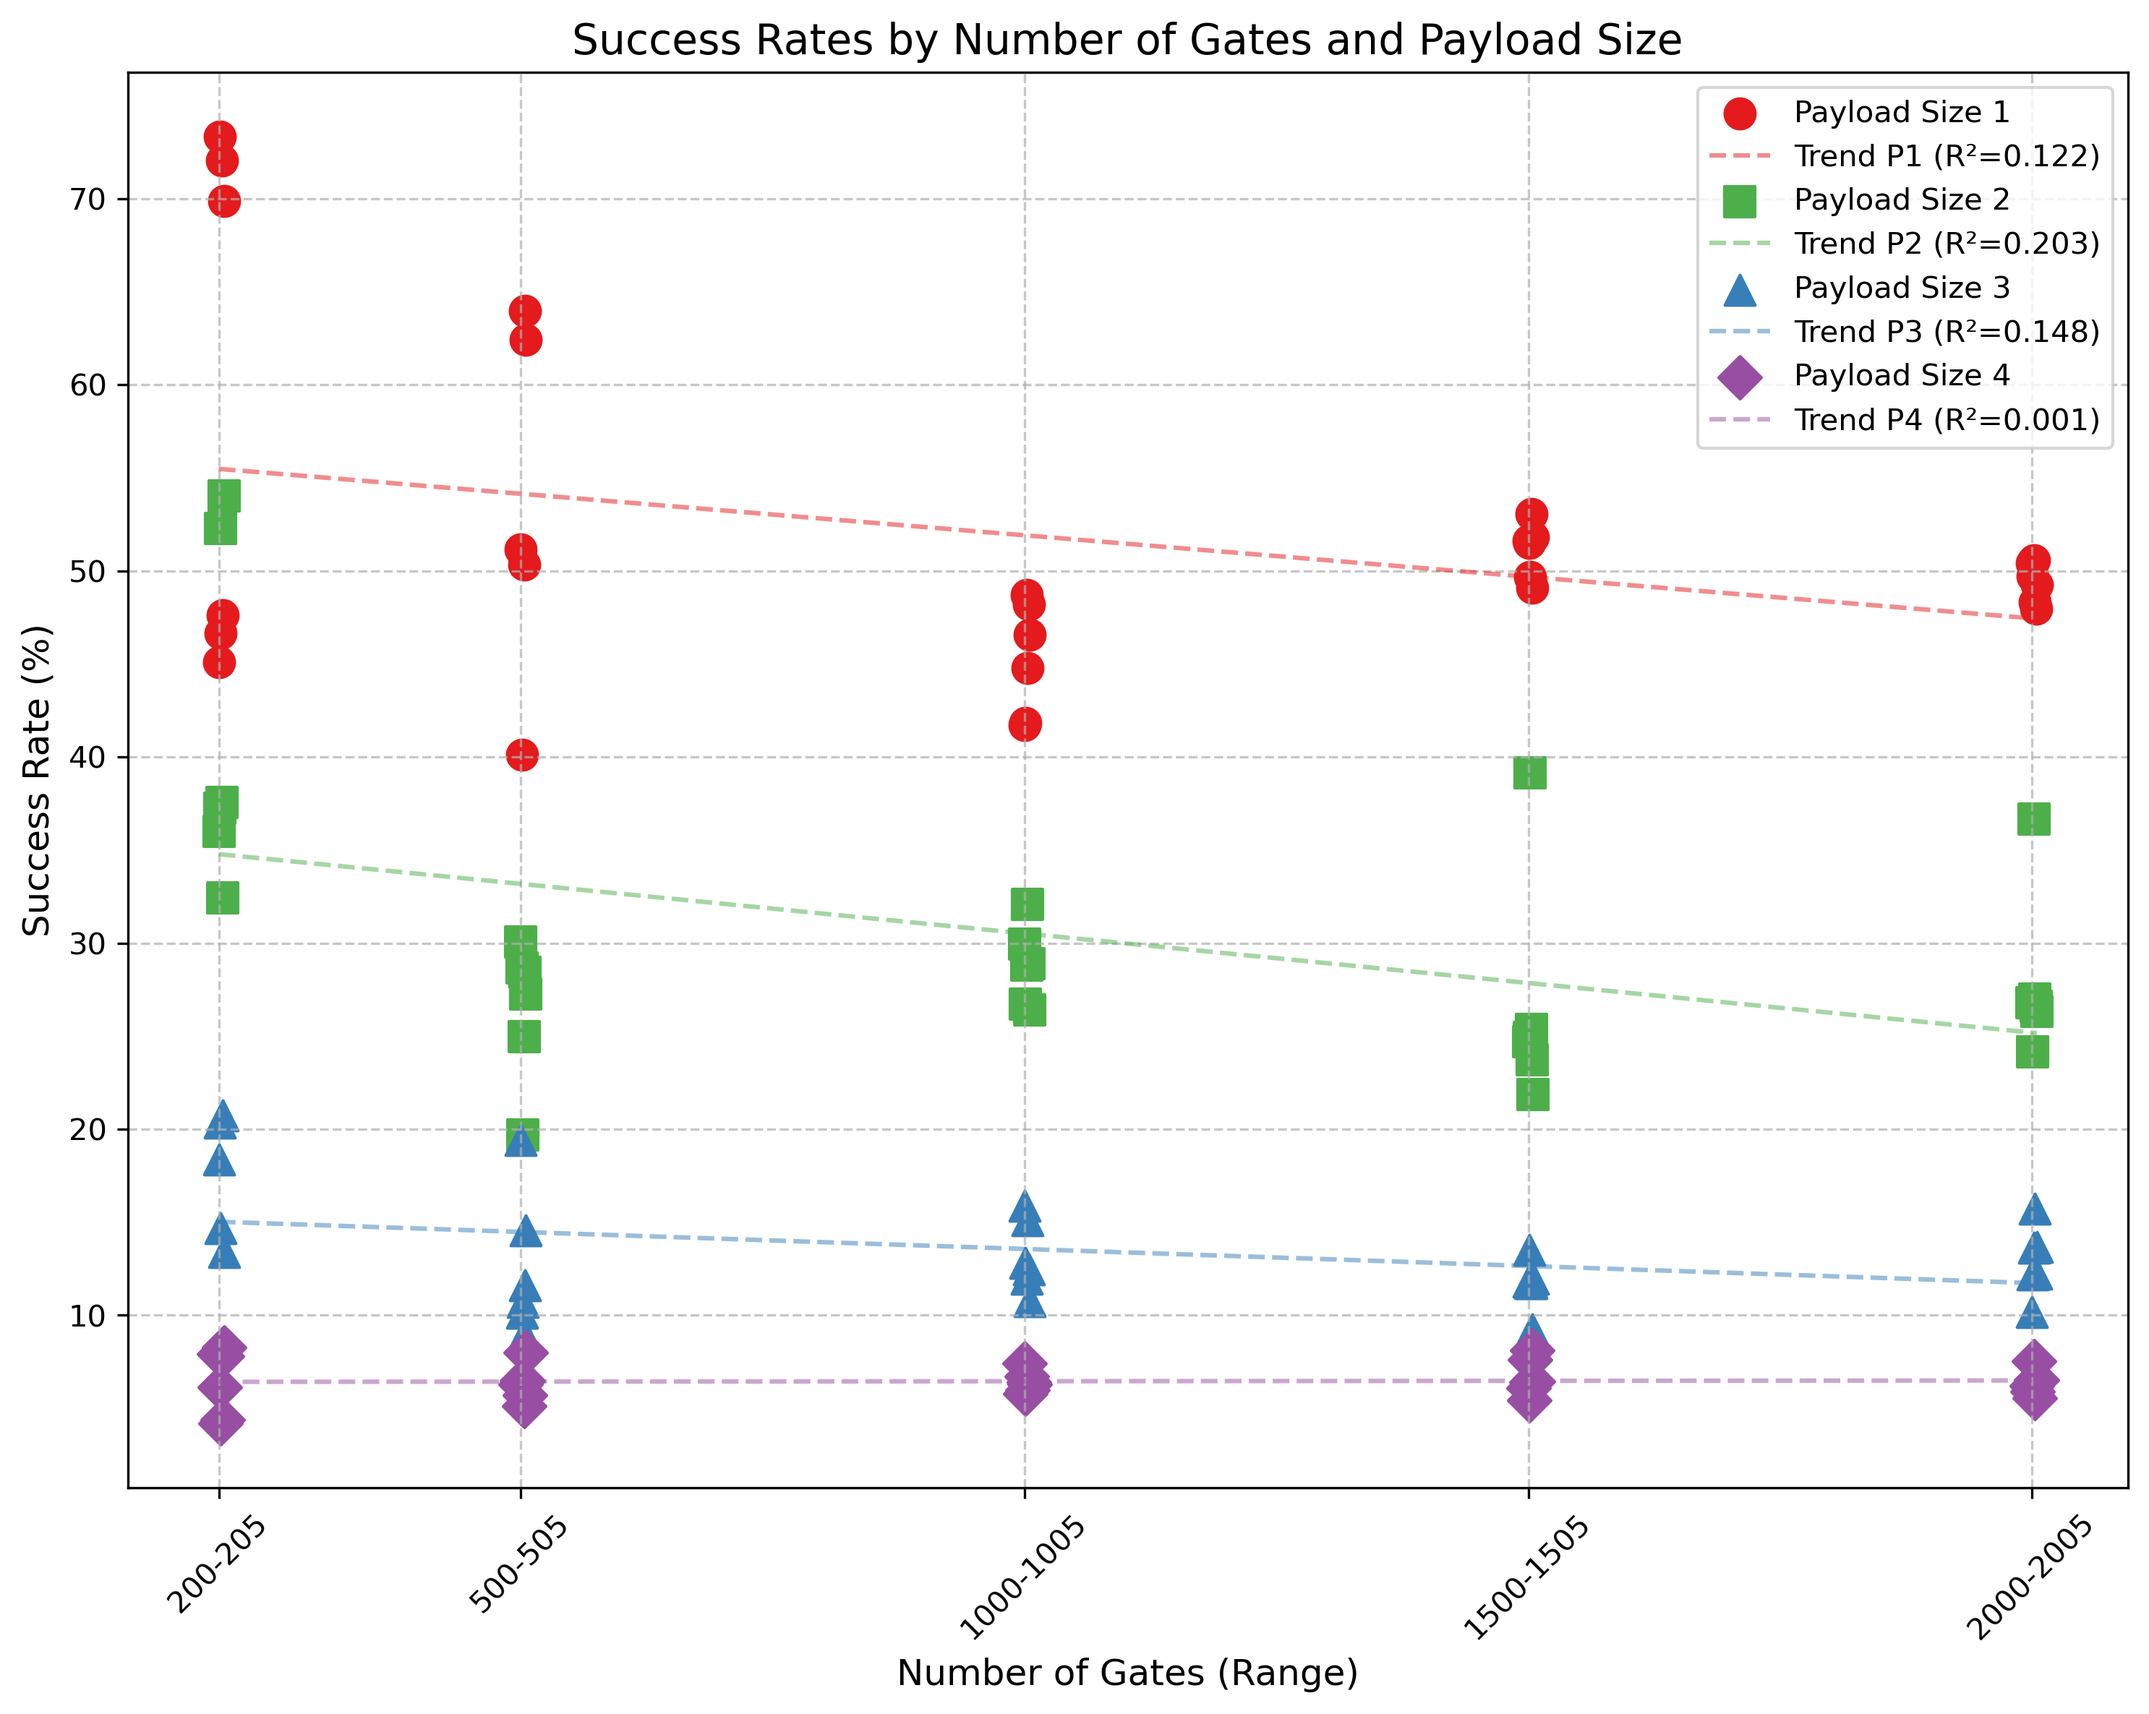
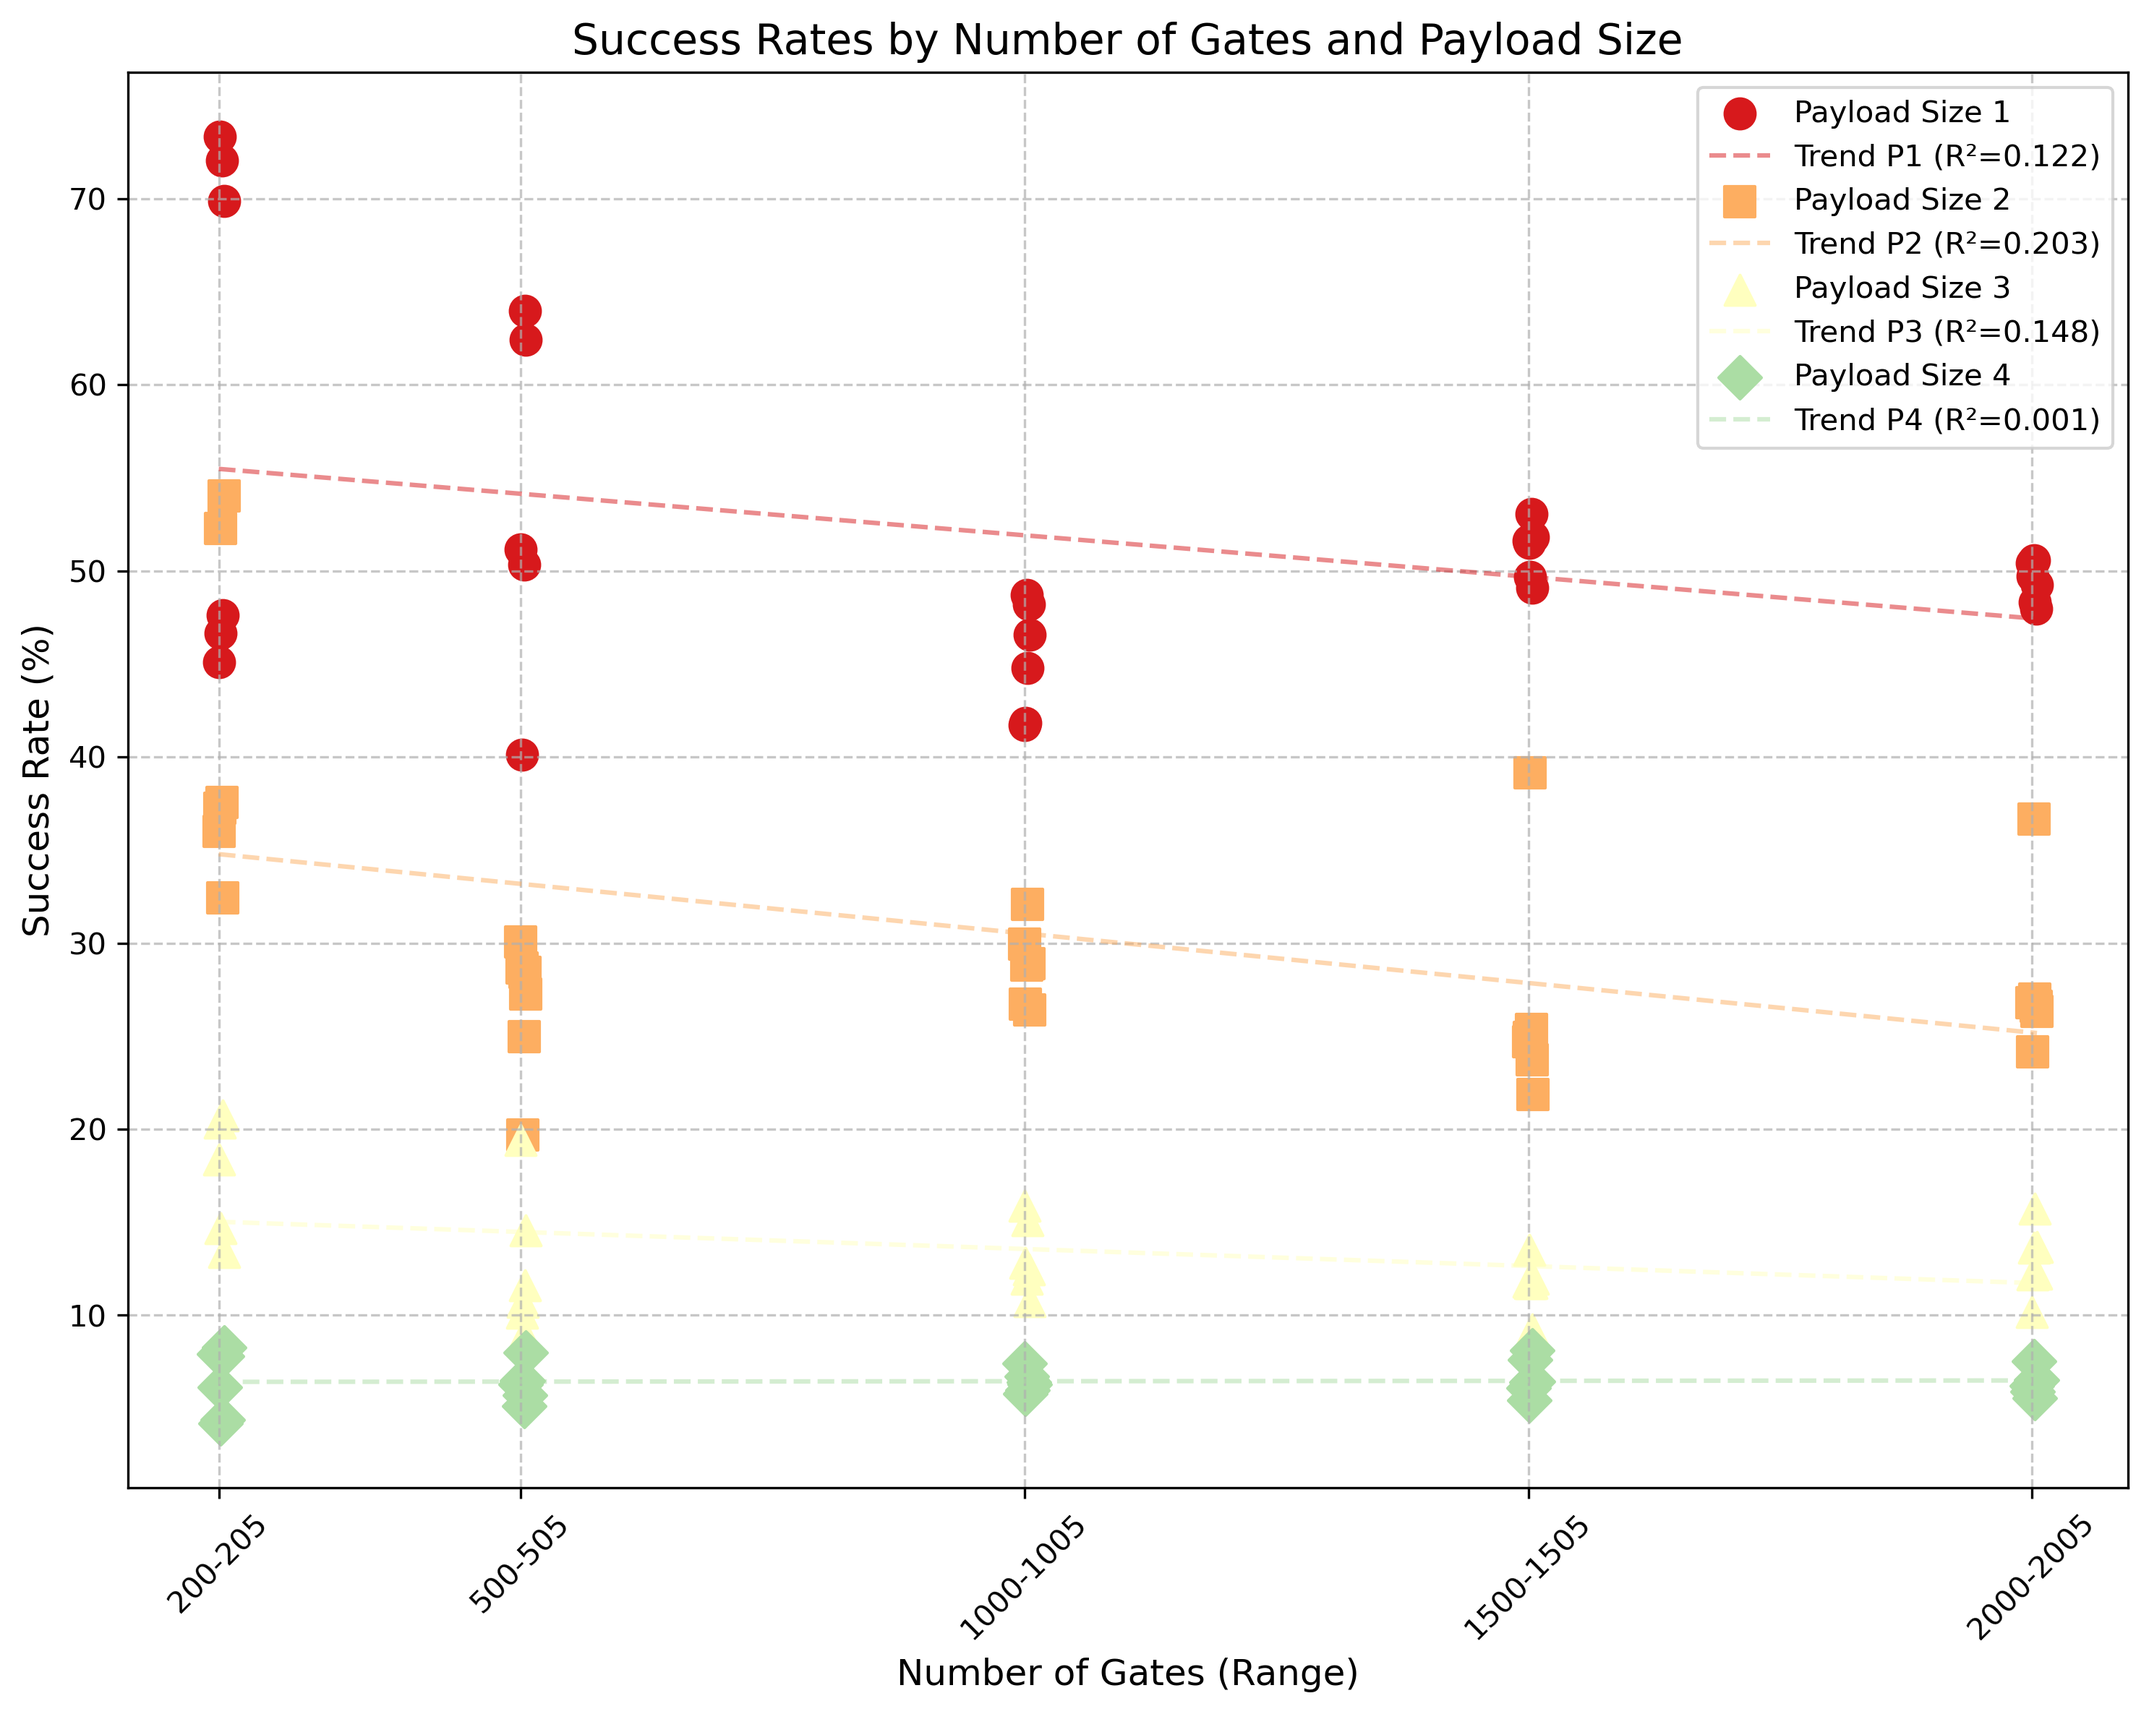
udpated graphs and report with the new cap-score

diff --git a/experiment/results/experiment_analysis.py b/experiment/results/experiment_analysis.py
@@ -3,6 +3,7 @@ import matplotlib.pyplot as plt
 import numpy as np
 import statsmodels.api as sm
 from mpl_toolkits.mplot3d import Axes3D  # For 3D plotting
+from matplotlib import patches
 from results_1_4_500_505 import results_1_4_500_505
 from results_1_4_1000_1005 import results_1_4_1000_1005
 from results_1_4_1500_1505 import results_1_4_1500_1505
@@ -11,10 +12,11 @@ from results_1_5_200_205 import results_1_5_200_205
 
 # ColorBrewer colorblind-friendly palette
 COLORBREWER_PALETTE = {
-    1: '#e41a1c',    # Red
-    2: '#4daf4a',    # Green
-    3: '#377eb8',    # Blue
-    4: '#984ea3',    # Purple
+    1: '#d7191c',    # Red
+    2: '#fdae61',    # Orange
+    3: '#ffffbf',    # Yellow
+    4: '#abdda4',    # Light Green
+    5: '#2b83ba'     # Blue
 }
 
 # Distinct marker styles with different shapes and fills
@@ -23,6 +25,12 @@ MARKER_STYLES = {
     2: 's',     # Square
     3: '^',     # Triangle up
     4: 'D',     # Diamond
+    5: 'v',     # Triangle down
+    6: 'p',     # Pentagon
+    7: 'h',     # Hexagon
+    8: '8',     # Octagon
+    9: '*',     # Star
+    10: 'P',    # Plus (filled)
 }
 
 def create_experiment_dataframe():
@@ -439,6 +447,121 @@ def plot_error_analysis(df):
 
     return None
 
+def calculate_cap_score(success_rate, payload_size, gate_count, ps_max=4, g_max=2000):
+    """
+    Calculate the Cap-score for given parameters.
+    
+    Cap-score = S_{ps,g} * sqrt((ps * g)/(ps_max * g_max)) * 100
+    
+    Parameters:
+    -----------
+    success_rate : float
+        Success rate (0 to 1)
+    payload_size : int
+        Number of qubits in payload
+    gate_count : int
+        Number of gates
+    ps_max : int
+        Maximum payload size (default: 4)
+    g_max : int
+        Maximum gate count (default: 2000)
+    
+    Returns:
+    --------
+    float : Cap-score (0 to 100)
+    """
+    return success_rate * np.sqrt((payload_size * gate_count)/(ps_max * g_max)) * 100
+
+def plot_cap_scores(df):
+    """
+    Create visualization of Cap-scores with grouped bars for each payload size and gate range.
+    """
+    # Create figure
+    fig, ax = plt.subplots(figsize=(15, 8))
+    
+    # Gate ranges to analyze
+    gate_ranges = [(200, 205), (500, 505), (1000, 1005), (1500, 1505), (2000, 2005)]
+    payload_sizes = sorted(df['payload_size'].unique())
+    
+    # Calculate positions for bars
+    bar_width = 0.17  # Increased from 0.15
+    index = np.arange(len(payload_sizes))
+    
+    # Calculate and plot Cap-scores for each gate range
+    for i, gate_range in enumerate(gate_ranges):
+        cap_scores = []
+        
+        for size in payload_sizes:
+            mask = (df['payload_size'] == size) & (df['num_gates'].between(gate_range[0], gate_range[1]))
+            if not df[mask].empty:
+                success_rate = df[mask]['success_rate'].mean()
+                cap_score = calculate_cap_score(success_rate, size, gate_range[0])
+                cap_scores.append(cap_score)
+            else:
+                cap_scores.append(0)
+        
+        # Create bars with position offset
+        position = index + (i - 2) * bar_width
+        bars = ax.bar(position, cap_scores, bar_width,
+                     color=COLORBREWER_PALETTE[i+1],
+                     edgecolor='black',
+                     linewidth=1,
+                     alpha=0.8)
+        
+        # Add value labels inside bars
+        for bar in bars:
+            height = bar.get_height()
+            if height > 0:  # Only add label if there's a value
+                # Position text at 50% of bar height
+                ax.text(bar.get_x() + bar_width/2., height/2.,
+                       f'{height:.1f}',
+                       ha='center', va='center',
+                       rotation=0, fontsize=12,  # Increased from 10
+                       color='black',
+                       weight='bold')  # Made text bold
+    
+    # Customize plot
+    ax.set_xlabel('Payload Size (qubits)', fontsize=14)  # Increased from 12
+    ax.set_ylabel('Cap-score', fontsize=14)  # Increased from 12
+    ax.set_title('Quantum Hardware Cap-scores Analysis\nMeasuring combined success rate and complexity handling', 
+                fontsize=16)  # Increased from 14
+    
+    # Set x-axis labels
+    ax.set_xticks(index)
+    ax.set_xticklabels([f'{size} qubits' for size in payload_sizes], fontsize=12)  # Added fontsize
+    ax.tick_params(axis='y', labelsize=12)  # Increased y-axis tick label size
+    
+    # Customize grid
+    ax.grid(True, linestyle='--', alpha=0.3, axis='y')
+    ax.set_axisbelow(True)  # Put grid behind bars
+    
+    # Set y-axis limits
+    ax.set_ylim(0, 30)
+    
+    # Create legend for gate ranges using squares
+    gate_handles = [plt.Line2D([0], [0], marker='s', color='w', 
+                              markerfacecolor=COLORBREWER_PALETTE[i+1],
+                              markersize=12,  # Increased from 10
+                              markeredgecolor='black')
+                   for i in range(len(gate_ranges))]
+    gate_labels = [f'{r[0]}-{r[1]} gates' for r in gate_ranges]
+    
+    gate_legend = ax.legend(gate_handles, gate_labels,
+                           title='Gate Ranges',
+                           bbox_to_anchor=(1.02, 0.5),
+                           loc='center left',
+                           fontsize=12,  # Added fontsize for legend text
+                           title_fontsize=14)  # Added fontsize for legend title
+    
+    # Adjust layout
+    plt.subplots_adjust(right=0.85)
+    
+    # Save figure
+    plt.savefig('cap_scores_analysis.png', dpi=300, bbox_inches='tight')
+    # plt.close()
+    
+    return None
+
 if __name__ == "__main__":
     # Create the DataFrame
     df = create_experiment_dataframe()
@@ -507,3 +630,8 @@ if __name__ == "__main__":
     print("\nGenerating Error Analysis Plots...")
     plot_error_analysis(df)
     print("Error analysis plots saved as 'error_analysis.png'")
+    
+    # Add Cap-score analysis
+    print("\nGenerating Cap-score Analysis Plot...")
+    plot_cap_scores(df)
+    print("Cap-score analysis plot saved as 'cap_scores_analysis.png'")

diff --git a/report/abstract.tex b/report/abstract.tex
@@ -1,0 +1,3 @@
+\section*{Abstract}
+
+In anticipation of quantum computing entering the quantum utility era, it is imperative to provide developers with a set of metrics that will allow them to determine how much trust they can place in the execution of their programs. This study presents a novel algorithm inspired by the teleportation protocol to benchmark quantum hardware. The algorithm is divided into three parts: the payload, composed of entangled qubits with random gates applied to each wire; the bridge, which corresponds to the inspired-teleportation protocol; and the inverse operation of the payload, leading to an output equal to the initial state of the circuit. The study evaluated the algorithm's success, error distributions, and circuit complexity metrics by using both the AerSimulator and IBM quantum devices to run the code. The Cap-Score metric is introduced, combining success rates with circuit complexity to provide a comprehensive assessment of quantum hardware capabilities. The analysis reveals significant correlations between payload size, gate count, and the generated error through an evaluation of the success rates, providing developers with quantitative benchmarks to assess hardware reliability and scalability limitations for their quantum applications.
